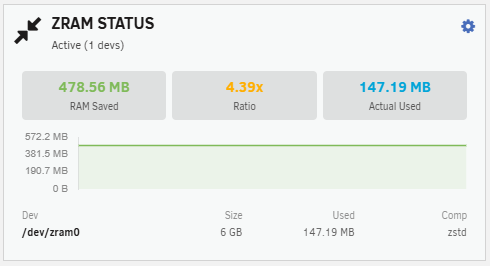
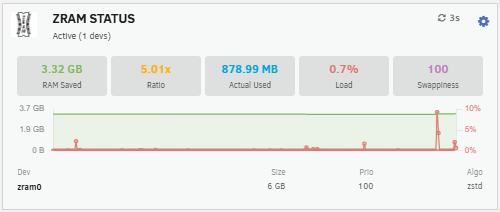
feat: added non-technical documentation and parameterized release workflows (v2026.02.13.13)

diff --git a/docs/SETTINGS_GUIDE.md b/docs/SETTINGS_GUIDE.md
@@ -1,0 +1,61 @@
+# Unraid ZRAM Settings & Usage Guide
+
+This guide explains how to configure and manage your ZRAM swap devices using the Unraid ZRAM plugin.
+
+## 1. Understanding ZRAM
+ZRAM is a tool that creates a "compressed swap" area in your RAM. Instead of your computer slowing down when it runs out of memory, it compresses older data into a smaller space within your RAM. This is much faster than using a hard drive or SSD for swap.
+
+## 2. Plugin Settings Explained
+
+### Enable Dashboard
+- **Options**: Yes / No
+- **What it does**: Controls whether the ZRAM status card appears on your main Unraid Dashboard.
+
+### Refresh Interval (ms)
+- **Valid Values**: 1000 or higher (Default: 3000)
+- **What it does**: How often the Dashboard card updates its live statistics. 1000ms = 1 second.
+
+### Collection Interval (sec)
+- **Valid Values**: 1 or higher (Default: 3)
+- **What it does**: How often the background service records data for the history chart. Even if you close your browser, this service keeps track of performance.
+
+### Swappiness (0-100)
+- **Valid Range**: 0 to 100 (Default: 100)
+- **What it does**: Controls how "aggressive" the system is about using ZRAM. For ZRAM, a value of **100** is recommended to ensure the system utilizes the compressed memory effectively.
+
+### Debug Mode
+- **What it does**: When enabled, the plugin records detailed technical logs. Only turn this on if you are troubleshooting an issue.
+
+### Show Command Console
+- **What it does**: Displays a real-time terminal window at the bottom of the settings page so you can see exactly what commands the plugin is running.
+
+---
+
+## 3. How to Manage ZRAM Devices
+
+### Adding a New Device
+1. Go to **Settings > Unraid ZRAM**.
+2. In the **ZRAM Management** section, enter a **Size** (e.g., `4G` or `512M`).
+3. Choose a **Compression Algorithm** (e.g., `zstd` is highly recommended for best balance).
+4. Click **Create Device**.
+
+### Changing an Existing Device
+Because ZRAM devices are part of the system's active memory, they cannot be resized while in use.
+1. Click the **X** icon next to the device to remove it.
+2. Follow the "Adding a New Device" steps above to create a new one with your desired settings.
+
+### Adjusting Priority
+1. Click the **Pencil icon** next to a device.
+2. Enter a new **Priority** number (Higher numbers are used by the system first).
+3. Click **Apply Changes**.
+   *Note: The system will temporarily move data out of that ZRAM device to apply the change.*
+
+---
+
+## 4. Diagnostics & Logs
+
+### Command History Tab
+This shows a simplified log of every action you've taken (Creating devices, changing settings, etc.). It persists on the server so you can see your history even after a page refresh.
+
+### System Debug Log Tab
+This shows the raw technical output from the background services. Use the **Refresh Log** button to see the latest entries or **Clear Debug Log** to start fresh.